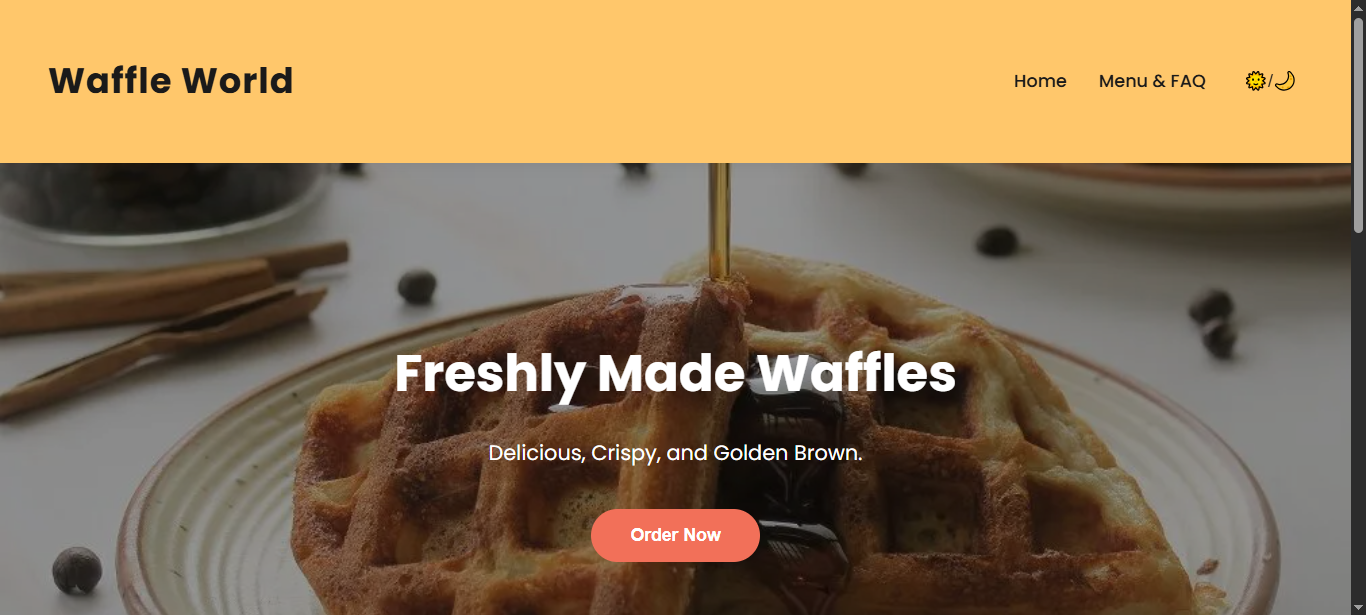
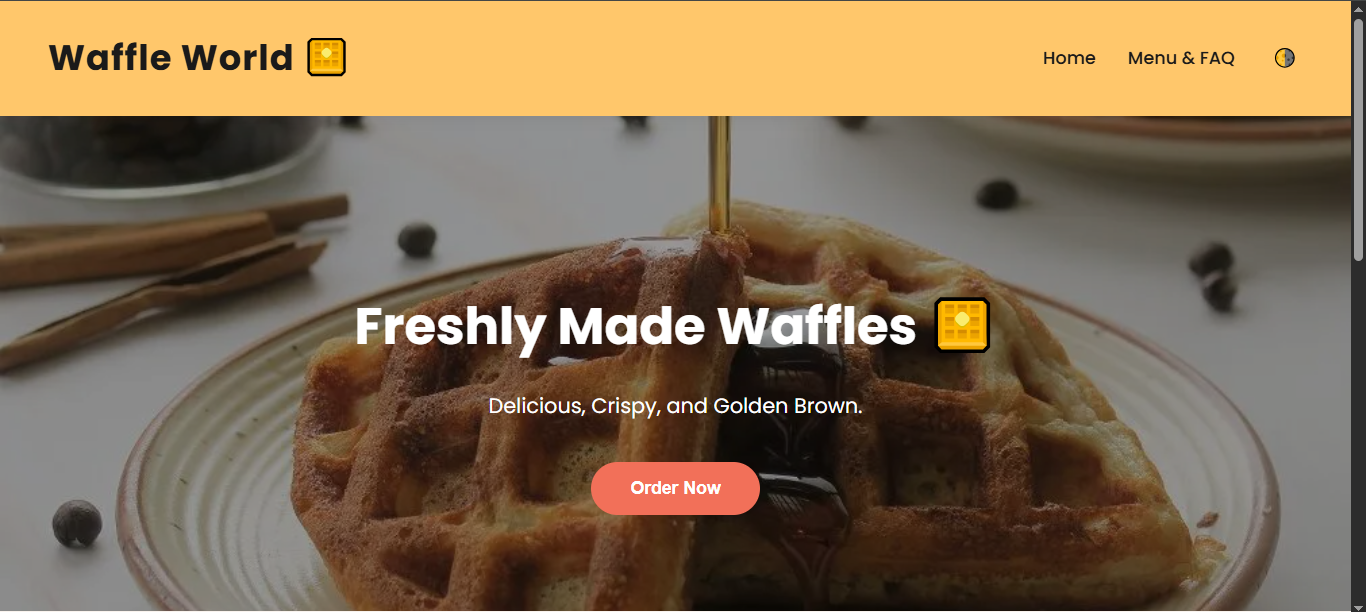
new-ss

diff --git a/1.css b/1.css
@@ -1,86 +1,77 @@
 body {
-    font-family: "Poppins", sans-serif;
-    margin: 0;
-    padding: 0;
-    background: var(--bg);
-    color: var(--text);
-    transition: background 0.3s, color 0.3s;
-    line-height: 1.6;
-    scroll-behavior: smooth;
+  font-family: "Poppins", sans-serif;
+  margin: 0;
+  padding: 0;
+  background: var(--bg);
+  color: var(--text);
+  transition: background 0.3s, color 0.3s;
+  line-height: 1.6;
+  scroll-behavior: smooth;
 }
 
 :root {
-    --bg: #fffaf5;
-    --text: #1a1a1a;
-    --card-bg: #ffffff;
-    --primary: #ffc76b;
-    --accent: #f27059;
-    --soft: #f9f3ee;
+  --bg: #fffaf5;
+  --text: #1a1a1a;
+  --card-bg: #ffffff;
+  --primary: #ffc76b;
+  --accent: #f27059;
+  --soft: #f9f3ee;
 }
 
 .dark-mode {
-    --bg: #121212;
-    --text: #f1f1f1;
-    --card-bg: #1e1e1e;
-    --primary: #ffb347;
-    --accent: #ff6f00;
-    --soft: #1a1a1a;
+  --bg: #121212;
+  --text: #f1f1f1;
+  --card-bg: #1e1e1e;
+  --primary: #ffb347;
+  --accent: #ff6f00;
+  --soft: #1a1a1a;
 }
 
 .ww-navbar {
-    background: var(--primary);
-    padding: 1.5rem 3rem;
-    display: flex;
-    justify-content: space-between;
-    align-items: center;
-    box-shadow: 0 4px 12px rgba(0, 0, 0, 0.05);
-    position: sticky;
-    top: 0;
-    z-index: 1000;
+  background: var(--primary);
+  padding: 1.5rem 3rem;
+  display: flex;
+  justify-content: space-between;
+  align-items: center;
+  box-shadow: 0 4px 12px rgba(0, 0, 0, 0.05);
+  position: sticky;
+  top: 0;
+  z-index: 1000;
 }
 
 .ww-brand {
-    font-size: 2.2rem;
-    font-weight: 700;
-    color: var(--text);
-    letter-spacing: 1px;
+  font-size: 2.2rem;
+  font-weight: 700;
+  color: var(--text);
+  letter-spacing: 1px;
 }
 
 .ww-nav-links {
-    list-style: none;
-    display: flex;
-    gap: 2rem;
-    margin: 0;
-    padding: 0;
+  list-style: none;
+  display: flex;
+  gap: 2rem;
+  margin: 0;
+  padding: 0;
 }
 
 .ww-nav-links a,
 #toggle-theme {
-    text-decoration: none;
-    font-weight: 500;
-    color: var(--text);
-    background: none;
-    border: none;
-    cursor: pointer;
-    font-size: 1.1rem;
-    transition: color 0.3s;
+  text-decoration: none;
+  font-weight: 500;
+  color: var(--text);
+  background: none;
+  border: none;
+  cursor: pointer;
+  font-size: 1.1rem;
+  transition: color 0.3s;
 }
 
 .ww-nav-links a:hover,
 #toggle-theme:hover {
-    color: var(--accent);
+  color: var(--accent);
 }
 
 .ww-hero {
-    text-align: center;
-    padding: 8rem 2rem 6rem;
-    backgr
-}
-}
-}
-}
-}
-}
-}
-}
+  text-align: center;
+  padding: 8rem 2rem 6rem;
 }
